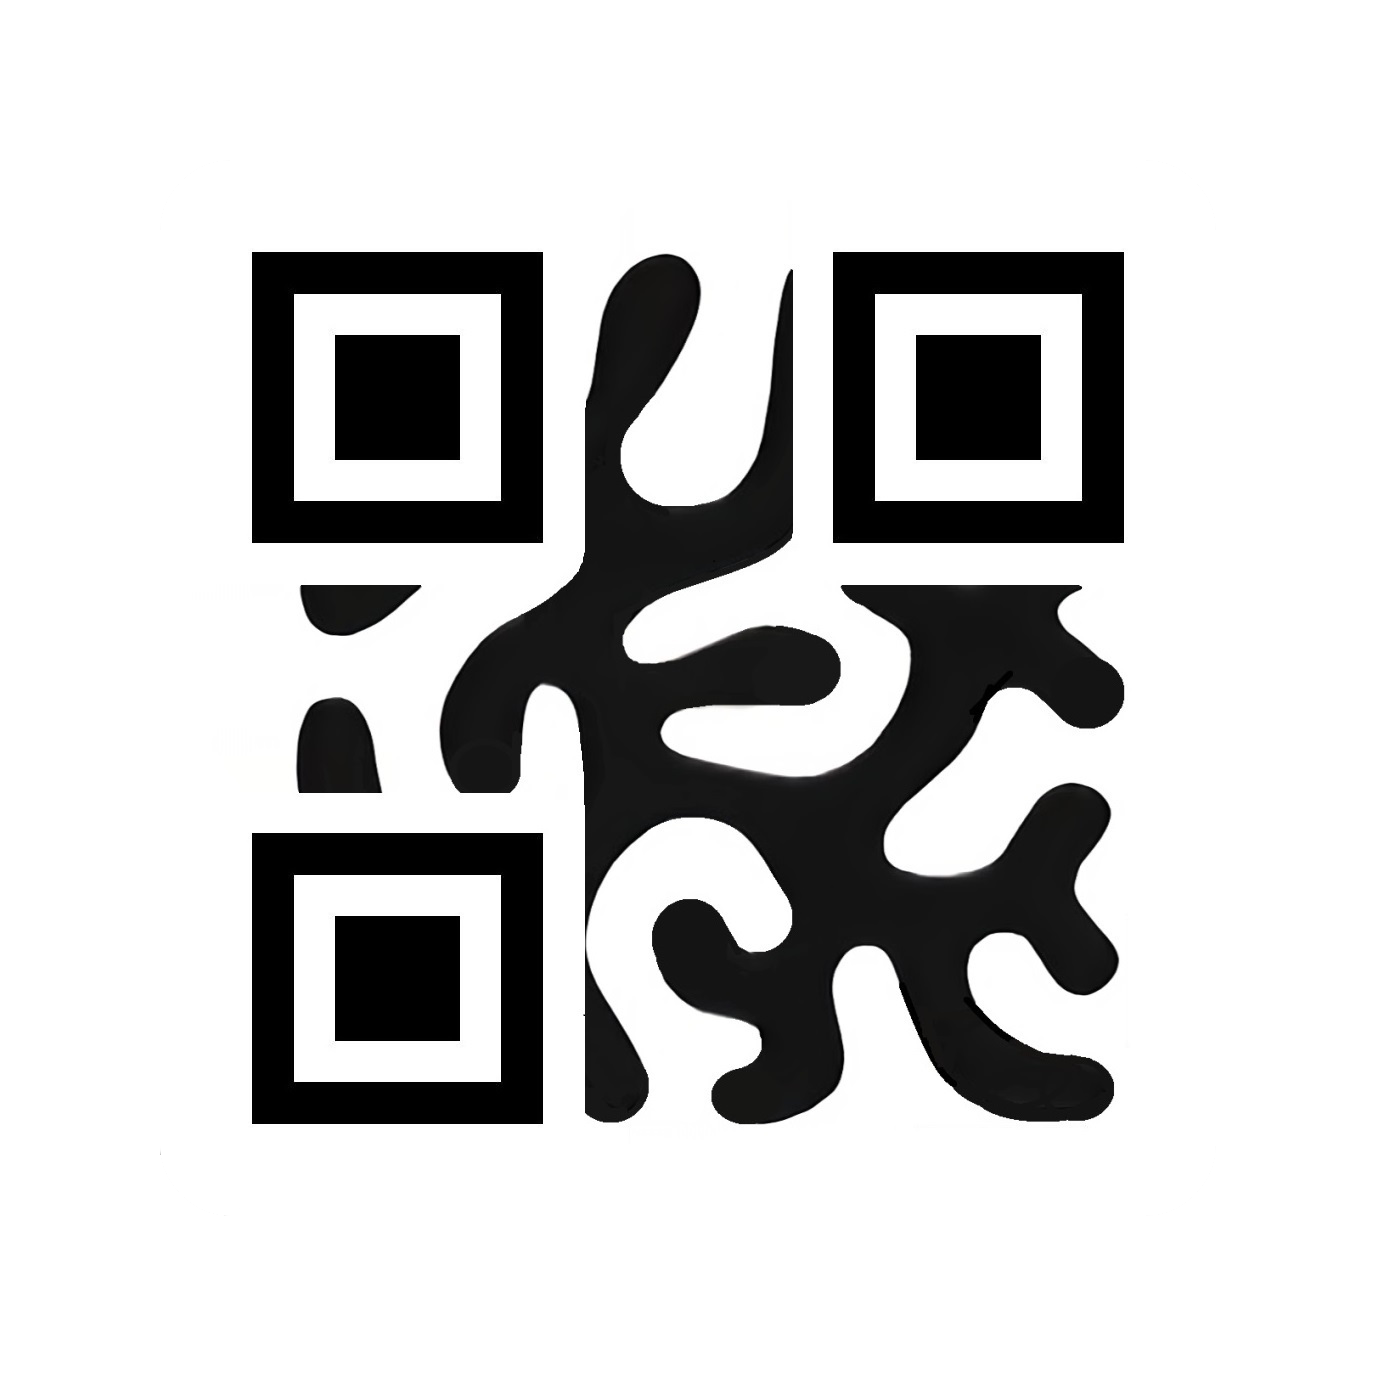
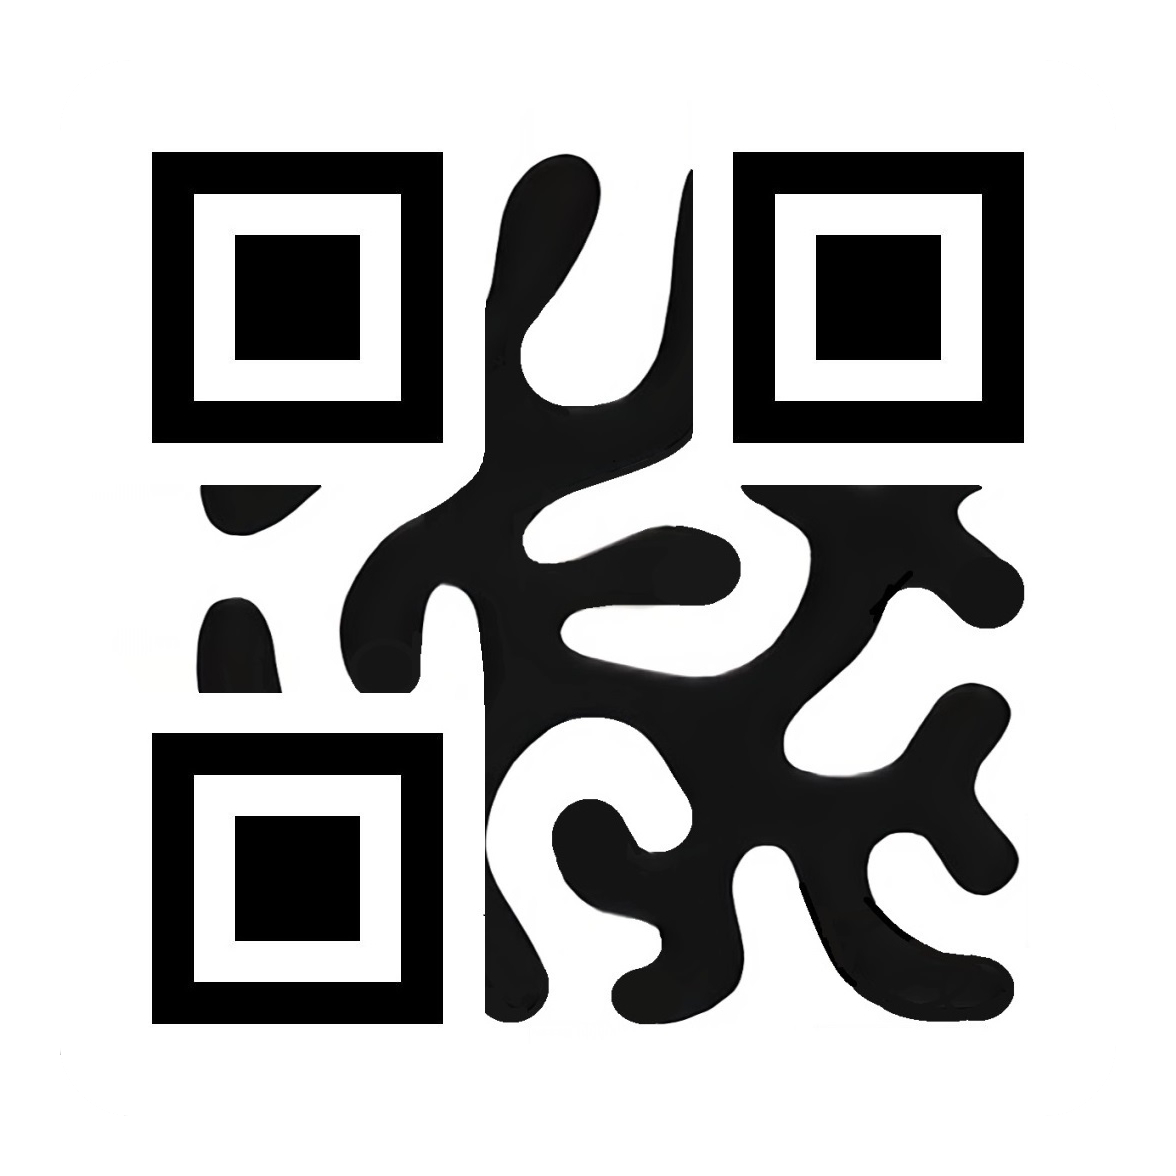
image re alligned

Changed region(s): [[0.1224, 0.1224, 0.8878, 0.8878], [0.4592, 0.5204, 0.4898, 0.551]]

diff --git a/lib/screens/code_display.dart b/lib/screens/code_display.dart
@@ -97,6 +97,15 @@ class _CodeDisplayScreenState extends State<CodeDisplayScreen> {
                             children: [
                               customButton(
                                 onPress: () => shareImage(),
+                                icon: Icons.share,
+                              ),
+                              const Text('Share', textAlign: TextAlign.center),
+                            ],
+                          ),
+                          Column(
+                            children: [
+                              customButton(
+                                onPress: () => saveit(),
                                 icon: Icons.photo_library,
                               ),
                               const Text('Save', textAlign: TextAlign.center),
